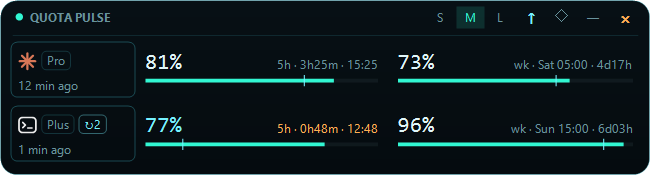
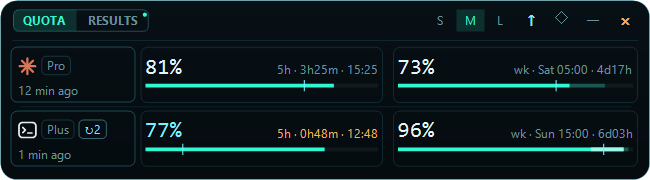
[Update : Docs] Added the v0.9.0 min-max devlog entry, a Results screenshot and render options, regenerated the Quota pulse and Settings screenshots, and set the version to 0.9.0

diff --git a/docs/devlog.md b/docs/devlog.md
@@ -4,6 +4,18 @@ How NeonMon grew from a single system-monitor strip into a two-strip desktop wid
 
 [Back to the README](../README.md)
 
+## October 16, 2026: min-max (v0.9.0)
+
+The Quota pulse showed how much was left, but not whether you would use it before the reset. Min-max mode, on by default, turns the rest of the weekly limit into a daily quest. At midnight NeonMon divides what's left by the days to the reset. The Large layout shows today's progress with a plain verdict: on track to max out, how much will go unused at the current rate, or how much is left for today. Small and Medium mark today's slice on the weekly bar instead. Finishing the quest lights the provider's dot on the hidden tab for the rest of the day. The ahead and behind pace line is gone, because it was hard to read; with min-max off, the Large layout shows the daily budget on its own.
+
+![Quota pulse large layout with the Daily quest column](images/history-daily-quest.png)
+
+A Quota / Results switch in the header opens quests this week, last week's result with a streak of maxed weeks, and the last 8 weeks. Results keep the same provider cards as Quota, and until a week has finished they show the current week instead. History stays in `quota-history.json` on your machine. Past Codex weeks are rebuilt once from the local Codex session logs. Claude history starts on first run, because NeonMon never reads Claude transcripts.
+
+![Quota pulse Results view with quests, last week, and the last 8 weeks](images/history-results.png)
+
+The last 24 hours of a week are flagged while 25% or more is left, the same way the 5-hour use-it-or-lose-it hint works. **Low-quota colours → Reward** shows low quota in ice instead of amber and red. Everything is in **Settings → Quota pulse → Min-max**. Small and Medium rows also got faint outlines and a divider, so the two providers stay apart when the numbers are quiet.
+
 ## October 10, 2026: update notice and downloads (v0.8.0)
 
 Until now the only way to learn about a new version was to look at GitHub, and the only way to get one was to build it. Once a day NeonMon now reads the public release list and tells you once when a newer version exists; the tray menu and **Settings → Support** keep showing it until you update. It sends no account or usage data, downloads nothing, and **Settings → General → Check for updates** turns it off.

diff --git a/docs/gallery.md b/docs/gallery.md
@@ -22,6 +22,8 @@ All screenshots are rendered by NeonMon itself (`NeonMon.exe --render-preview <f
 
 Claude Code is listed first and Codex second. Values count down from 100% remaining. The tick on each bar marks where usage would be at an even pace through the window, the amber ▲ line is a "use it or lose it" hint (at least half the 5-hour quota is left but it resets within an hour), and the chip under Codex shows available reset credits and the earliest expiry.
 
+The Daily quest column is min-max mode: what's left of the weekly limit, divided by the days to the reset, with how far today has got. Small and Medium show today's quest as a lighter slice of the weekly bar.
+
 **Large**
 
 ![Quota pulse, large layout](images/quota-large.png)
@@ -33,6 +35,12 @@ Claude Code is listed first and Codex second. Values count down from 100% remain
 **Small**
 
 ![Quota pulse, small layout](images/quota-small.png)
+
+**Results**
+
+**Results** in the header shows quests this week (filled for done, amber for missed, dashed for today), last week's result and streak, and the last 8 weeks, with the current week as an open bar.
+
+![Quota pulse Results view, large layout](images/quota-results.png)
 
 ## Peek
 

diff --git a/CONTRIBUTING.md b/CONTRIBUTING.md
@@ -22,7 +22,7 @@ NeonMon can render any strip to a PNG with fixed sample data, which makes UI cha
 .\bin\Release\net9.0-windows\NeonMon.exe --render-preview quota.png Large --strip quota --state Peek --dock Top --sample
 ```
 
-Options: `--strip system|quota`, `--state Hidden|Peek|Open`, `--dock Top|Bottom|Left|Right`, and a size of `Small`, `Medium`, or `Large`. If a change is not meant to affect a view, its render should stay pixel-identical. Include before and after renders in pull requests that change the UI.
+Options: `--strip system|quota`, `--state Hidden|Peek|Open`, `--dock Top|Bottom|Left|Right`, and a size of `Small`, `Medium`, or `Large`. For Quota pulse, `--view results` renders the Results view, `--goal MaxOut|Off` sets min-max mode, and `--colors Warn|Reward` sets the low-quota colours. If a change is not meant to affect a view, its render should stay pixel-identical. Include before and after renders in pull requests that change the UI.
 
 ## Releasing
 

diff --git a/README.md b/README.md
@@ -49,7 +49,7 @@ It has two strips:
 
 ![System pulse large layout with uptime, CPU and GPU load, GPU temperature, memory, free space per drive, top CPU process, and GPU stability](docs/images/system-large.png)
 
-![Quota pulse large layout with Claude Code and Codex 5-hour and weekly usage limits, reset times, and a daily budget against weekly pace](docs/images/quota-large.png)
+![Quota pulse large layout with Claude Code and Codex 5-hour and weekly usage limits, reset times, and a daily quest for maxing out the weekly limit](docs/images/quota-large.png)
 
 More screenshots are in the [gallery](docs/gallery.md), and the [devlog](docs/devlog.md) shows how the UI evolved.
 
